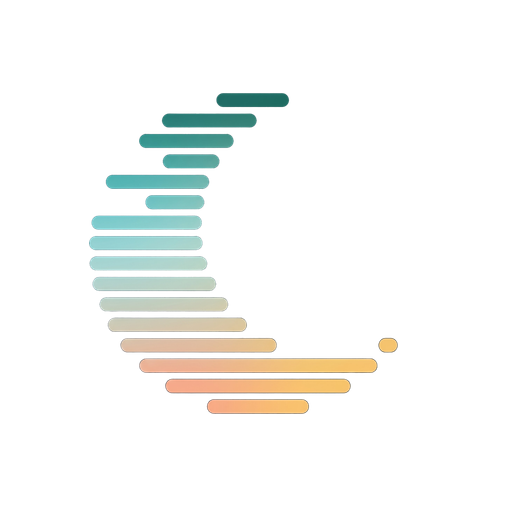
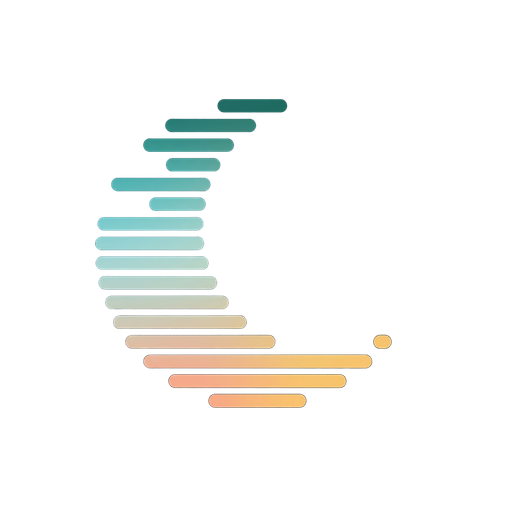
Interrupteurs libérés pendant un envoi, et marge dans la zone sûre des icônes
La sérialisation (`serialize()`) garantit déjà qu'une seule commande part à la
fois : griser les interrupteurs en plus avalait un appui sur deux et empêchait
d'éteindre la lumière au milieu d'un réglage d'intensité.

Le contenu des icônes adaptatives touchait exactement la limite de la zone sûre
(rayon 169 pour 169) : le bord du point ambré pouvait se faire mordre par un
masque rond agressif. Ramené à 63,5 % du côté, ce qui laisse 6 px de marge.

Claude-Session: https://claude.ai/code/session_01CumTKSZZYcmT5Ew3NU6kxb

Changed region(s): [[0.1562, 0.1562, 0.7812, 0.8125], [0.375, 0.5, 0.4062, 0.5312]]

diff --git a/src/app/(tabs)/index.tsx b/src/app/(tabs)/index.tsx
@@ -208,7 +208,7 @@ function LightCard({ link }: { link: LinkView }) {
       <View style={{ flexDirection: 'row', alignItems: 'center', gap: 11 }}>
         <Icon name="sun" size={19} color={light?.onoff ? colors.accent : 'rgba(255,255,255,0.72)'} strokeWidth={1.5} />
         <T size={15.5} weight="semibold" style={{ flex: 1 }}>Lumière</T>
-        <Toggle label="Lumière" value={!!light?.onoff} pending={busy === 'onoff'} disabled={!controllable || (busy !== null && busy !== 'onoff')} onPress={() => light && run('onoff', (api) => api.light(!light.onoff))} />
+        <Toggle label="Lumière" value={!!light?.onoff} pending={busy === 'onoff'} disabled={!controllable} onPress={() => light && run('onoff', (api) => api.light(!light.onoff))} />
       </View>
       {light?.onoff ? (
         <View style={{ marginTop: 12 }}>
@@ -232,7 +232,7 @@ function LightCard({ link }: { link: LinkView }) {
       <View style={{ flexDirection: 'row', alignItems: 'center', gap: 11, marginTop: 16, paddingTop: 14, borderTopWidth: 1, borderTopColor: colors.hairline }}>
         <Icon name="moon" size={17} color={light?.ngtlt ? colors.accent : 'rgba(255,255,255,0.6)'} strokeWidth={1.5} />
         <T size={14.5} weight="medium" style={{ flex: 1 }}>Veilleuse</T>
-        <Toggle label="Veilleuse" value={!!light?.ngtlt} pending={busy === 'night'} disabled={!controllable || (busy !== null && busy !== 'night')} onPress={() => light && run('night', (api) => api.nightlight(!light.ngtlt))} />
+        <Toggle label="Veilleuse" value={!!light?.ngtlt} pending={busy === 'night'} disabled={!controllable} onPress={() => light && run('night', (api) => api.nightlight(!light.ngtlt))} />
       </View>
       {!link.canControl ? <T size={12} color={colors.textMuted} style={{ marginTop: 12 }}>{link.controlReason}</T> : null}
       {link.canControl && !light ? <T size={12} color={colors.textMuted} style={{ marginTop: 12 }}>État de la lampe pas encore relu.</T> : null}
